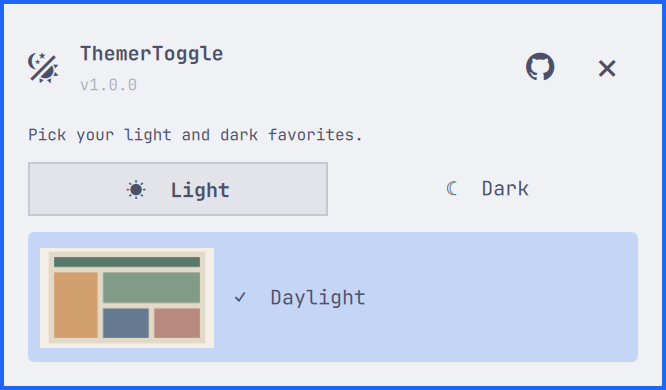
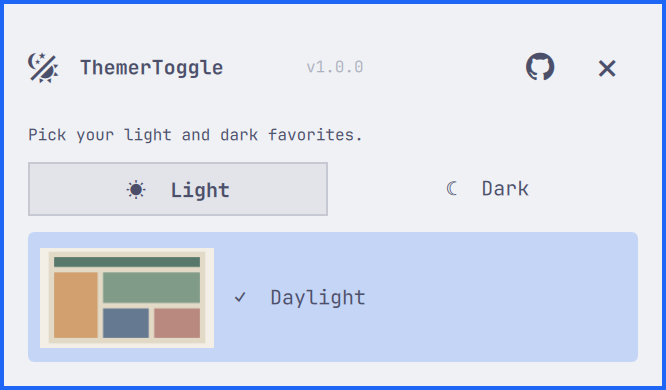
Center version in menu header

Changed region(s): [[0.1201, 0.0923, 0.3303, 0.2462], [0.4505, 0.1538, 0.5405, 0.1846]]

diff --git a/ThemeSelector.qml b/ThemeSelector.qml
@@ -318,26 +318,24 @@ Panel {
           font.pixelSize: Style.space(22)
           Accessible.name: "ThemerToggle"
         }
-        Column {
+        Text {
+          id: titleText
           anchors.left: headerLogo.right
           anchors.leftMargin: Style.space(12)
           anchors.verticalCenter: parent.verticalCenter
-          spacing: Style.space(3)
-          Text {
-            id: titleText
-            text: "ThemerToggle"
-            color: Color.foreground
-            font.family: Style.font.family
-            font.pixelSize: Style.font.body
-            font.bold: true
-          }
-          Text {
-            id: versionText
-            text: root.pluginVersion ? "v" + root.pluginVersion : ""
-            color: Color.muted
-            font.family: Style.font.family
-            font.pixelSize: Style.font.caption
-          }
+          text: "ThemerToggle"
+          color: Color.foreground
+          font.family: Style.font.family
+          font.pixelSize: Style.font.body
+          font.bold: true
+        }
+        Text {
+          id: versionText
+          anchors.centerIn: parent
+          text: root.pluginVersion ? "v" + root.pluginVersion : ""
+          color: Color.muted
+          font.family: Style.font.family
+          font.pixelSize: Style.font.caption
         }
         Button {
           id: sourceControl

diff --git a/README.md b/README.md
@@ -50,7 +50,7 @@ stops when the shell loads the theme. Remaining hooks stay supervised and errors
 are still reported. If early readiness cannot be confirmed, the plugin waits for
 the command to finish.
 
-The selector header shows the name and installed version beside its logo.
+The selector header shows the name beside its logo and the installed version in the center.
 The Source button opens this repository in your browser; the X closes the menu.
 
 Mode detection follows Omarchy's own resolver, including custom palettes and
